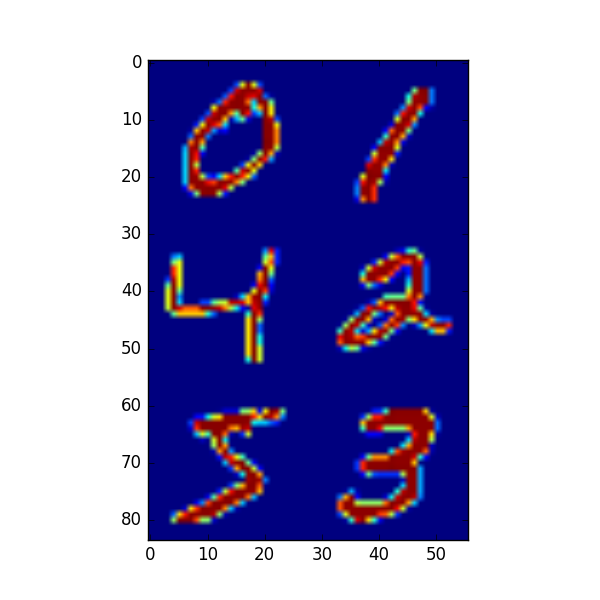
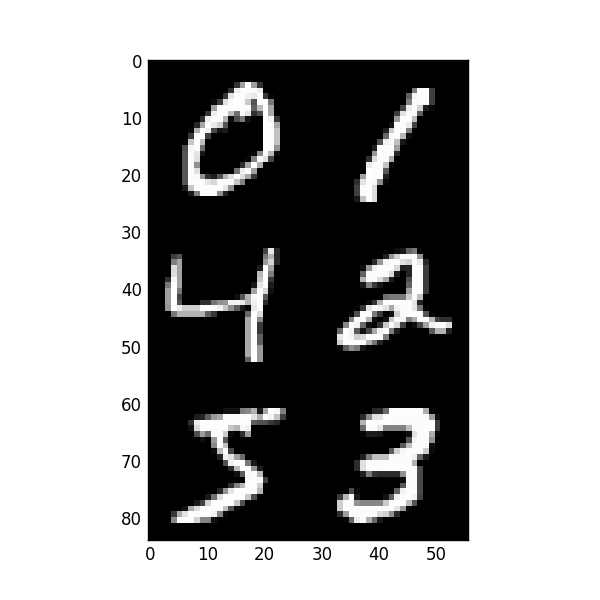
test mnist_puzzle_transitions + strips.py

diff --git a/strips.py b/strips.py
@@ -12,7 +12,10 @@ def reshape_batch1D(images,repeat=None):
 def dump_actions(transitions,path):
     # assert 2 == transitions.shape[0]
     ae = GumbelAE(path)
-    ae.train(np.concatenate(transitions,axis=0))
+    ae.train(np.concatenate(transitions,axis=0),
+             # anneal_rate=0.0001,
+             # epoch=400
+    )
 
     orig, dest = transitions[0], transitions[1]
     orig_b, dest_b = ae.encode_binary(orig), ae.encode_binary(dest)
@@ -23,6 +26,7 @@ def dump_actions(transitions,path):
 
 
 if __name__ == '__main__':
+    import numpy.random as random
     def plot_grid(images,name="plan.png"):
         import matplotlib.pyplot as plt
         l = len(images)
@@ -37,33 +41,33 @@ if __name__ == '__main__':
             ax.get_yaxis().set_visible(False)
         plt.savefig(name)
 
-    # from counter import counter_transitions
-    # transitions = counter_transitions(n=1000)
-    # counter_actions = dump_actions((reshape_batch1D(transitions[0]),
-    #                                 reshape_batch1D(transitions[1])),
-    #                                "samples/counter_model/")
-    # print counter_actions[:3]
-    # ae = GumbelAE("samples/counter_model/")
-    # xs = transitions[0][:18]
-    # ys = ae.autoencode(xs)
-    # images = np.reshape(np.einsum('ab...->ba...',(xs,ys)),(36,28,28))
-    # plot_grid(images, ae.local("autoencoding.png"))
-    
+    def run(path, shape, transitions):
+        actions = dump_actions(transitions, path)
+        print actions[:3]
+        ae = GumbelAE(path)
+        xs = transitions[0][random.randint(0,transitions[0].shape[0],12)]
+        zs = ae.encode_binary(xs).reshape((-1,4,4))
+        ys = ae.autoencode(xs).reshape(shape)
+        xs = xs.reshape(shape)
+        images = []
+        for x,z,y in zip(xs,zs,ys):
+            images.append(x)
+            images.append(z)
+            images.append(y)
+        plot_grid(images, ae.local("autoencoding.png"))
+
+    from counter import counter_transitions
+    transitions = counter_transitions(n=1000)
+    run("samples/counter_model/", (-1,28,28), transitions)
     
     from puzzle import puzzle_transitions
     transitions = puzzle_transitions(2,2)
-    puzzle_actions = dump_actions((reshape_batch1D(transitions[0],1000),
-                                   reshape_batch1D(transitions[1],1000)),
-                                  "samples/puzzle_model/")
-    print puzzle_actions[:3]
-    ae = GumbelAE("samples/puzzle_model/")
-    import numpy.random as random
-    xs = transitions[0][random.randint(0,transitions[0].shape[0],12)]
-    zs = ae.encode_binary(xs).reshape((-1,4,4))
-    ys = ae.autoencode(xs).reshape((-1,6*2,5*2))
-    images = []
-    for x,z,y in zip(xs,zs,ys):
-        images.append(x)
-        images.append(z)
-        images.append(y)
-    plot_grid(images, ae.local("autoencoding.png"))
+    transitions = np.repeat(transitions,100,axis=1)
+    run("samples/puzzle_model/", (-1,6*2,5*2), transitions)
+
+    from mnist_puzzle import mnist_puzzle_transitions
+    transitions = mnist_puzzle_transitions(2,2)
+    transitions = np.repeat(transitions,100,axis=1)
+    run("samples/mnist_puzzle_model/", (-1,28*2,28*2), transitions)
+
+    
